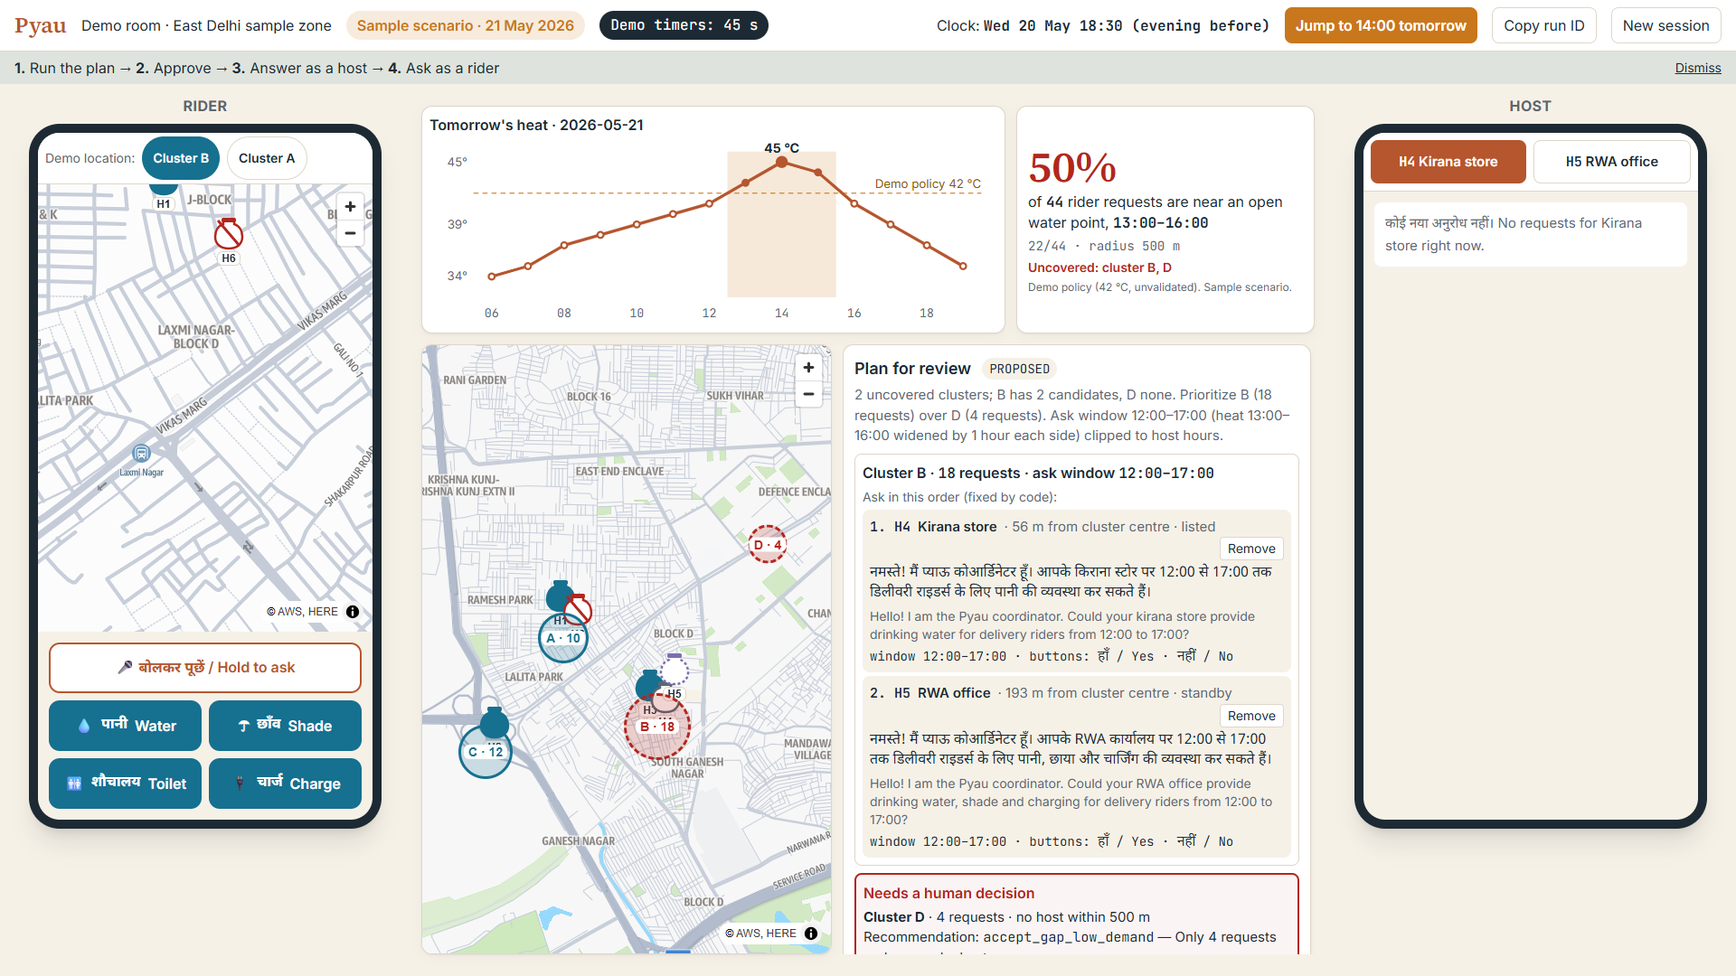
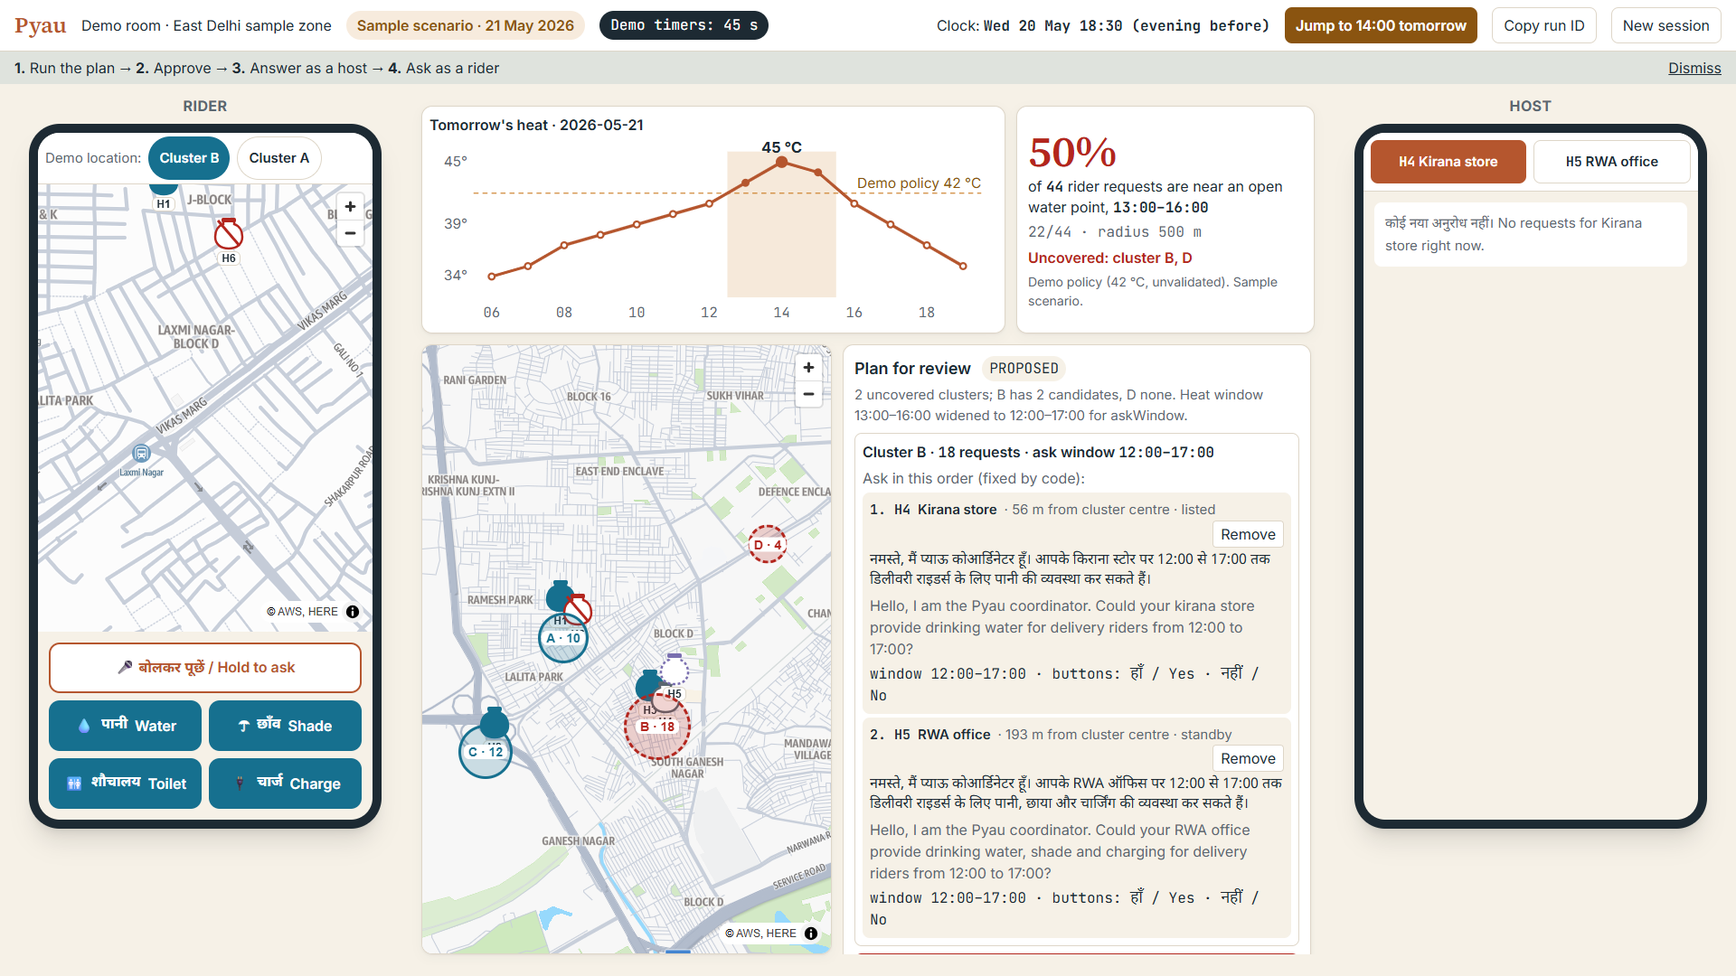
UI polish without layout change: heat-ink contrast token, 15/16 px minimum text, accessible loading states

diff --git a/apps/web/src/components/RiderPanel.tsx b/apps/web/src/components/RiderPanel.tsx
@@ -122,7 +122,7 @@ export function RiderPanel({ sessionId, zoneId, center, hosts, locations, onAnsw
   return (
     <div className="flex h-full flex-col bg-canvas text-[15px]">
       {locations.length > 1 && (
-        <div className="flex items-center gap-2 border-b border-border bg-white px-2 py-1 text-sm" role="group" aria-label="Demo rider location">
+        <div className="flex items-center gap-2 border-b border-border bg-white px-2 py-1 text-[15px]" role="group" aria-label="Demo rider location">
           <span className="text-muted">Demo location:</span>
           {locations.map((l) => (
             <button key={l.id} aria-pressed={locId === l.id} onClick={() => { setLocId(l.id); setAnswer(null); setFb(null); }}
@@ -148,22 +148,22 @@ export function RiderPanel({ sessionId, zoneId, center, hosts, locations, onAnsw
             {answer.host && (
               <p className="m-0 flex flex-wrap items-baseline gap-x-2">
                 <strong className="text-lg">{answer.host.label}</strong>
-                <span className="font-mono text-sm text-muted">{answer.host.id}</span>
+                <span className="font-mono text-[15px] text-muted">{answer.host.id}</span>
               </p>
             )}
             <p className="hi m-0 mt-1 text-base leading-snug">{answer.answer.hi}</p>
-            <p className="m-0 mt-1 text-sm text-muted">{answer.answer.en}</p>
+            <p className="m-0 mt-1 text-[15px] text-muted">{answer.answer.en}</p>
             {answer.found && answer.host && (
-              <p className="m-0 mt-2 text-sm">
+              <p className="m-0 mt-2 text-[15px]">
                 <span className="font-mono font-semibold">
                   {answer.distanceM} m
                   {answer.route ? ` · ~${Math.max(1, Math.round(answer.route.durationS / 60))} min by scooter` : ""}
                 </span>
-                {answer.approximate && <span className="text-heat"> · approximate</span>}
+                {answer.approximate && <span className="text-heat-ink"> · approximate</span>}
               </p>
             )}
             {!answer.found && (
-              <p className="m-0 mt-2 text-sm font-medium text-gap">
+              <p className="m-0 mt-2 text-[15px] font-medium text-gap">
                 {hi.nothingNearby} · {en.nothingNearby}
               </p>
             )}
@@ -189,7 +189,7 @@ export function RiderPanel({ sessionId, zoneId, center, hosts, locations, onAnsw
                   </div>
                 )}
                 {fb?.result && (
-                  <p className="m-0 text-sm font-semibold" role="status">
+                  <p className="m-0 text-[15px] font-semibold" role="status">
                     {fb.result.kind === "got_it"
                       ? "Thanks! 🙏 Good to hear."
                       : fb.result.pausedNow
@@ -197,7 +197,7 @@ export function RiderPanel({ sessionId, zoneId, center, hosts, locations, onAnsw
                         : `Thanks — reported (${fb.result.problemCount} of ${fb.result.threshold} before a point is paused).`}
                   </p>
                 )}
-                {fb?.error && <p className="m-0 text-sm font-semibold text-gap">{fb.error}</p>}
+                {fb?.error && <p className="m-0 text-[15px] font-semibold text-gap">{fb.error}</p>}
               </div>
             )}
             <div className="mt-2 flex gap-2">
@@ -207,7 +207,7 @@ export function RiderPanel({ sessionId, zoneId, center, hosts, locations, onAnsw
                   {playing === "blocked" ? " (tap)" : ""}
                 </button>
               ) : (
-                <span className="flex-1 self-center text-sm text-muted">Audio unavailable — text answer above</span>
+                <span className="flex-1 self-center text-[15px] text-muted">Audio unavailable — text answer above</span>
               )}
               {answer.route && (
                 <button
@@ -222,7 +222,7 @@ export function RiderPanel({ sessionId, zoneId, center, hosts, locations, onAnsw
           </section>
         )}
         {transcript !== null && (
-          <p className="m-0 rounded-lg bg-white p-2 text-sm" aria-live="polite">
+          <p className="m-0 rounded-lg bg-white p-2 text-[15px]" aria-live="polite">
             <span className="text-muted">सुना / Heard:</span> <span className="hi font-semibold">“{transcript || "…"}”</span>
           </p>
         )}

diff --git a/apps/web/src/components/CoordinatorPanel.tsx b/apps/web/src/components/CoordinatorPanel.tsx
@@ -3,6 +3,7 @@ import { useQuery } from "@tanstack/react-query";
 import { getCoverage, type MapResponse } from "../api";
 import { isTerminal, type useRun } from "../hooks";
 import { AgentPanel } from "./AgentPanel";
+import { Loading } from "./Loading";
 import { HeatCurve } from "./HeatCurve";
 import { MapView } from "./MapView";
 import { OutreachBoard } from "./OutreachBoard";
@@ -36,6 +37,7 @@ export function CoordinatorPanel({ sessionId, zoneId, token, map, run }: Coordin
   return (
     <div className="flex h-full flex-col gap-3 overflow-hidden p-3">
       {cov.error && <p className="m-0 text-gap">{(cov.error as Error).message}</p>}
+      {!d && !cov.error && <Loading>Loading coverage…</Loading>}
       {d && (
         <div className="grid shrink-0 grid-cols-[1fr_330px] gap-3">
           <section className="card p-2">
@@ -44,7 +46,7 @@ export function CoordinatorPanel({ sessionId, zoneId, token, map, run }: Coordin
           </section>
           <section className="card flex flex-col justify-center p-3" aria-live="polite">
             {d.heat.status !== "OK" || !d.coverage ? (
-              <p className="m-0 font-semibold text-heat">
+              <p className="m-0 font-semibold text-heat-ink">
                 {d.heat.status === "INSUFFICIENT_DATA" ? "Insufficient forecast data — not treated as safe" : "No hours at or above the demo threshold"}
               </p>
             ) : (
@@ -56,13 +58,13 @@ export function CoordinatorPanel({ sessionId, zoneId, token, map, run }: Coordin
                   of <strong className="font-mono">{d.coverage.total}</strong> rider requests are near an open water point,{" "}
                   <strong className="font-mono">{d.coverage.window[0]}–{d.coverage.window[1]}</strong>
                 </p>
-                <p className="m-0 mt-1 font-mono text-sm text-muted">{d.coverage.covered}/{d.coverage.total} · radius {d.policy.coverageRadiusMeters} m</p>
-                <p className="m-0 mt-1 text-sm font-semibold text-gap">
+                <p className="m-0 mt-1 font-mono text-base text-muted">{d.coverage.covered}/{d.coverage.total} · radius {d.policy.coverageRadiusMeters} m</p>
+                <p className="m-0 mt-1 text-base font-semibold text-gap">
                   {d.coverage.uncoveredClusters.length ? `Uncovered: cluster ${d.coverage.uncoveredClusters.join(", ")}` : "Every cluster covered"}
                 </p>
               </>
             )}
-            <p className="m-0 mt-1 text-xs text-muted">Demo policy ({d.policy.heatThresholdC} °C, unvalidated). Sample scenario.</p>
+            <p className="m-0 mt-1 text-[14px] text-muted">Demo policy ({d.policy.heatThresholdC} °C, unvalidated). Sample scenario.</p>
           </section>
         </div>
       )}

diff --git a/apps/web/src/components/PlanReview.tsx b/apps/web/src/components/PlanReview.tsx
@@ -36,7 +36,7 @@ export function PlanReview({ proposal, sessionId, token, onDone, readOnly }: { p
     <section className="card p-3">
       <div className="flex items-center gap-3">
         <h2 className="m-0 text-lg font-semibold">Plan for review</h2>
-        <span className="rounded-full bg-canvas px-2 py-0.5 font-mono text-sm">{proposal.status}</span>
+        <span className="rounded-full bg-canvas px-2 py-0.5 font-mono text-base">{proposal.status}</span>
       </div>
       <p className="m-0 mt-1 text-[15px] text-muted">{proposal.explanation}</p>
       {proposal.gaps.map((g) => (
@@ -45,7 +45,7 @@ export function PlanReview({ proposal, sessionId, token, onDone, readOnly }: { p
             Cluster {g.clusterId} · <span className="font-mono">{g.requests}</span> requests · ask window{" "}
             <span className="font-mono">{g.askWindow[0]}–{g.askWindow[1]}</span>
           </p>
-          <p className="m-0 mt-1 text-sm text-muted">Ask in this order (fixed by code):</p>
+          <p className="m-0 mt-1 text-base text-muted">Ask in this order (fixed by code):</p>
           {g.candidateOrder.map((h, i) => {
             const m = g.messages[h];
             const c = g.candidates.find((x) => x.hostId === h);
@@ -56,14 +56,14 @@ export function PlanReview({ proposal, sessionId, token, onDone, readOnly }: { p
                   <span className="font-semibold">{c ? shortName(c.label) : ""}</span>
                   {c && <span className="text-muted">· {c.distanceM} m from cluster centre · {c.kind}</span>}
                   {!decided && (
-                    <button className="ml-auto rounded border border-border bg-white px-2 py-0.5 text-sm" onClick={() => toggle(h)}>
+                    <button className="ml-auto rounded border border-border bg-white px-2 py-0.5 text-base" onClick={() => toggle(h)}>
                       {removed.has(h) ? "Keep" : "Remove"}
                     </button>
                   )}
                 </div>
                 <p className="hi m-0 mt-1 text-base leading-snug">{m.hi}</p>
-                <p className="m-0 mt-1 text-sm text-muted">{m.en}</p>
-                <p className="m-0 mt-1 font-mono text-sm">window {m.window[0]}–{m.window[1]}{m.trimmed ? " (trimmed to host hours)" : ""} · buttons: हाँ / Yes · नहीं / No</p>
+                <p className="m-0 mt-1 text-base text-muted">{m.en}</p>
+                <p className="m-0 mt-1 font-mono text-base">window {m.window[0]}–{m.window[1]}{m.trimmed ? " (trimmed to host hours)" : ""} · buttons: हाँ / Yes · नहीं / No</p>
               </div>
             );
           })}

diff --git a/apps/web/src/pages/Demo.tsx b/apps/web/src/pages/Demo.tsx
@@ -1,3 +1,4 @@
+import { Loading } from "../components/Loading";
 import { useQuery } from "@tanstack/react-query";
 import { useState } from "react";
 import { getMap, setClock } from "../api";
@@ -39,7 +40,7 @@ export default function Demo() {
   const run = useRun(sid, zone, token, session?.scenarioDate ?? "");
 
   if (error) return <p className="p-4 text-gap">{error}</p>;
-  if (!session || !map.data) return <p className="p-4">Starting a fresh demo session…</p>;
+  if (!session || !map.data) return <Loading>Starting a fresh demo session…</Loading>;
 
   const clock = map.data.clock;
   const jump = async () => {
@@ -74,12 +75,12 @@ export default function Demo() {
       <header className="flex flex-wrap items-center gap-x-4 gap-y-1 border-b border-border bg-panel px-4 py-2">
         <span className="font-serif text-2xl font-semibold text-clay">Pyau</span>
         <span className="text-base">Demo room · {map.data.zone.name}</span>
-        <span className="rounded-full bg-heat/15 px-3 py-1 text-base font-semibold text-heat">{map.data.badge}</span>
+        <span className="rounded-full bg-heat/15 px-3 py-1 text-base font-semibold text-heat-ink">{map.data.badge}</span>
         <span className="rounded-full bg-ink px-3 py-1 font-mono text-base text-white">Demo timers: {session.demoTimersSeconds} s</span>
         <span className="ml-auto text-base">
           Clock: <strong className="font-mono">{clockText(clock)}</strong>
         </span>
-        <button className="min-h-10 rounded-lg bg-heat px-3 text-base font-semibold text-white disabled:opacity-50" onClick={() => void jump()} disabled={clock.time === "14:00"}>
+        <button className="min-h-10 rounded-lg bg-heat-ink px-3 text-base font-semibold text-white disabled:opacity-50" onClick={() => void jump()} disabled={clock.time === "14:00"}>
           Jump to 14:00 tomorrow
         </button>
         <button className="min-h-10 rounded-lg border border-border px-3 text-base" onClick={() => void copy()} disabled={!run.runId}>
@@ -94,7 +95,7 @@ export default function Demo() {
           <span>
             <strong>1.</strong> Run the plan → <strong>2.</strong> Approve → <strong>3.</strong> Answer as a host → <strong>4.</strong> Ask as a rider
           </span>
-          <button className="ml-auto text-sm underline" onClick={dismissCoach}>Dismiss</button>
+          <button className="ml-auto text-base underline" onClick={dismissCoach}>Dismiss</button>
         </div>
       )}
       {jumpErr && <p className="m-0 px-4 text-gap">{jumpErr}</p>}

diff --git a/apps/web/src/components/HeatCurve.tsx b/apps/web/src/components/HeatCurve.tsx
@@ -19,17 +19,17 @@ export function HeatCurve({ data }: { data: CoverageResponse }) {
       aria-label={`Hourly apparent temperature, peak ${Math.max(...vals)} °C at ${hours[peakI]}${win ? `, heat window ${win[0]} to ${win[1]}` : ""}`}>
       {win && <rect x={X(hm(win[0]))} y={T} width={X(hm(win[1])) - X(hm(win[0]))} height={H - T - B} fill="#c9771c" opacity={0.16} />}
       <line x1={L} x2={W - R} y1={Y(data.policy.heatThresholdC)} y2={Y(data.policy.heatThresholdC)} stroke="#c9771c" strokeDasharray="5 4" />
-      <text x={W - R} y={Y(data.policy.heatThresholdC) - 5} textAnchor="end" fontSize="12" fill="#8a5410">Demo policy {data.policy.heatThresholdC} °C</text>
+      <text x={W - R} y={Y(data.policy.heatThresholdC) - 5} textAnchor="end" fontSize="14" fill="#8a5410">Demo policy {data.policy.heatThresholdC} °C</text>
       <polyline points={pts} fill="none" stroke="#b5562e" strokeWidth={3} strokeLinejoin="round" />
       {hours.map((h, i) => (
         <circle key={h} cx={X(hm(h) + 0.5)} cy={Y(vals[i])} r={i === peakI ? 5 : 3} fill={vals[i] >= data.policy.heatThresholdC ? "#b5562e" : "#fff"} stroke="#b5562e" strokeWidth={2} />
       ))}
-      <text x={X(hm(hours[peakI]) + 0.5)} y={Y(vals[peakI]) - 9} textAnchor="middle" fontSize="13" fontWeight="700" fill="#1d2a33">{vals[peakI]} °C</text>
+      <text x={X(hm(hours[peakI]) + 0.5)} y={Y(vals[peakI]) - 9} textAnchor="middle" fontSize="15" fontWeight="700" fill="#1d2a33">{vals[peakI]} °C</text>
       {hours.filter((_, i) => i % 2 === 0).map((h) => (
-        <text key={h} x={X(hm(h) + 0.5)} y={H - 8} textAnchor="middle" fontSize="12" fill="#5b6770" fontFamily="JetBrains Mono Variable, monospace">{h.slice(0, 2)}</text>
+        <text key={h} x={X(hm(h) + 0.5)} y={H - 8} textAnchor="middle" fontSize="14" fill="#5b6770" fontFamily="JetBrains Mono Variable, monospace">{h.slice(0, 2)}</text>
       ))}
       {[lo + 2, Math.round((lo + hi) / 2), hi - 1].map((v) => (
-        <text key={v} x={L - 6} y={Y(v) + 4} textAnchor="end" fontSize="12" fill="#5b6770">{v}°</text>
+        <text key={v} x={L - 6} y={Y(v) + 4} textAnchor="end" fontSize="14" fill="#5b6770">{v}°</text>
       ))}
     </svg>
   );

diff --git a/apps/web/src/components/AgentPanel.tsx b/apps/web/src/components/AgentPanel.tsx
@@ -22,8 +22,8 @@ export function AgentPanel({ events, detail, onRun, canRun, startError, replayId
     <section className="card p-3">
       <div className="flex items-center gap-3">
         <h2 className="m-0 text-lg font-semibold">Coverage agent</h2>
-        {run && <span className="rounded-full bg-canvas px-2 py-0.5 font-mono text-sm">{run.status}</span>}
-        {started && <span className="font-mono text-sm text-muted">{elapsed}s</span>}
+        {run && <span className="rounded-full bg-canvas px-2 py-0.5 font-mono text-base">{run.status}</span>}
+        {started && <span className="font-mono text-base text-muted">{elapsed}s</span>}
         {!readOnly && (
           <button
             className="ml-auto min-h-11 rounded-lg bg-clay px-4 text-base font-semibold text-white disabled:opacity-50"
@@ -47,11 +47,11 @@ export function AgentPanel({ events, detail, onRun, canRun, startError, replayId
           <li key={e.seq} className="text-[15px]">
             <details>
               <summary className="cursor-pointer list-none">
-                <span className="font-mono text-sm text-muted">{fmtTime(e.at)}</span>{" "}
-                <span className="rounded bg-canvas px-1.5 py-0.5 font-mono text-xs uppercase text-muted">{TYPE_LABEL[e.type] ?? e.type}</span>{" "}
+                <span className="font-mono text-base text-muted">{fmtTime(e.at)}</span>{" "}
+                <span className="rounded bg-canvas px-1.5 py-0.5 font-mono text-[14px] uppercase text-muted">{TYPE_LABEL[e.type] ?? e.type}</span>{" "}
                 <span>{e.summary}</span>
               </summary>
-              <pre className="m-1 overflow-auto rounded-lg bg-canvas p-2 font-mono text-xs">
+              <pre className="m-1 overflow-auto rounded-lg bg-canvas p-2 font-mono text-[14px]">
                 {e.type === "tool_receipt"
                   ? `${(e.data as { tool?: string }).tool}(${(e.data as { input?: string }).input ?? ""})  ${(e.data as { durationMs?: number }).durationMs} ms\n→ ${(e.data as { output?: string }).output ?? ""}`
                   : JSON.stringify(e.data, null, 1)}

diff --git a/apps/web/src/pages/Host.tsx b/apps/web/src/pages/Host.tsx
@@ -1,3 +1,4 @@
+import { Loading } from "../components/Loading";
 import { useEffect, useRef, useState } from "react";
 import { useQuery, useQueryClient } from "@tanstack/react-query";
 import { FieldError, getMap, hostAsks, registerHost, reverseGeocode, runFreshness, type Ask, type RegisteredHost } from "../api";
@@ -120,7 +121,7 @@ export default function Host() {
     }
   };
 
-  if (!session || !map.data) return <p className="p-4">Loading…</p>;
+  if (!session || !map.data) return <Loading>Loading the host screen…</Loading>;
   const myState = (id: string) => map.data!.hosts.find((h) => h.id === id);
   const toggleOffer = (o: string) => setOffers((v) => (v.includes(o) ? v.filter((x) => x !== o) : [...v, o]));
   const Err = ({ k }: { k: string }) => (fields[k] ? <p className="m-0 mt-1 text-sm font-semibold text-gap" role="alert">{fields[k]}</p> : null);
@@ -136,7 +137,7 @@ export default function Host() {
           <p className="hi m-0 text-lg">अपना पानी पॉइंट जोड़ें</p>
           <p className="m-0 text-sm text-muted">Sample scenario · demo session {sid.slice(0, 6)}</p>
         </header>
-        {notice && <p className="m-0 rounded-lg bg-ok/10 p-2 font-medium text-ok" role="status">{notice}</p>}
+        {notice && <p className="m-0 rounded-lg border border-ok bg-white p-2 font-medium text-ok" role="status">{notice}</p>}
         {(inbox.data ?? []).length > 0 && (
           <section className="space-y-2" aria-label="Inbox">
             {(inbox.data as Ask[]).map((a) => (

diff --git a/apps/web/src/components/HostPanel.tsx b/apps/web/src/components/HostPanel.tsx
@@ -29,7 +29,7 @@ export function AskCard({ ask, serverTime, sessionId, token, onChanged }: { ask:
   if (fresh)
     return (
       <section className="card p-3">
-        <p className="m-0 text-sm font-semibold text-muted">Morning check · {ask.hostLabel}</p>
+        <p className="m-0 text-[15px] font-semibold text-muted">Morning check · {ask.hostLabel}</p>
         <p className="hi m-0 mt-1 text-xl font-semibold">{ask.message.hi}</p>
         <p className="m-0 text-base text-muted">{ask.message.en}</p>
         {ask.status === "OPEN" && (
@@ -49,12 +49,12 @@ export function AskCard({ ask, serverTime, sessionId, token, onChanged }: { ask:
     );
   return (
     <section className="card p-3">
-      <p className="m-0 text-sm font-semibold text-muted">Request from the Pyau coordinator</p>
+      <p className="m-0 text-[15px] font-semibold text-muted">Request from the Pyau coordinator</p>
       <p className="hi m-0 mt-1 text-[17px] leading-snug">{ask.message.hi}</p>
       <p className="m-0 mt-1 text-[15px] text-muted">{ask.message.en}</p>
       <p className="m-0 mt-2 font-mono text-base font-bold">{ask.window[0]}–{ask.window[1]}</p>
       {ask.status === "OPEN" && (
-        <p className="m-0 mt-1 inline-block rounded-full bg-heat/15 px-3 py-1 font-mono text-sm font-semibold text-heat">
+        <p className="m-0 mt-1 inline-block rounded-full bg-heat/15 px-3 py-1 font-mono text-[15px] font-semibold text-heat-ink">
           {open ? `${fmtClock(left ?? 0)} left` : "time is up"}
         </p>
       )}

diff --git a/apps/web/src/components/OutreachBoard.tsx b/apps/web/src/components/OutreachBoard.tsx
@@ -6,7 +6,7 @@ const name = (a: Ask) => a.hostLabel ?? a.hostId;
 function Step({ ask, serverTime }: { ask: Ask; serverTime: number }) {
   const left = useCountdown(ask.status === "OPEN" ? ask.expiresAt : null, serverTime);
   if (ask.status === "OPEN")
-    return <li className="text-heat">⏳ Asking <strong>{name(ask)}</strong> · <span className="font-mono">{fmtClock(left ?? 0)} left</span></li>;
+    return <li className="text-heat-ink">⏳ Asking <strong>{name(ask)}</strong> · <span className="font-mono">{fmtClock(left ?? 0)} left</span></li>;
   if (ask.status === "TIMED_OUT") return <li className="text-gap">✗ {name(ask)}: no reply — timed out</li>;
   if (ask.status === "DECLINED") return <li className="text-gap">✗ {name(ask)} said No</li>;
   return <li className="text-ok">✓ {name(ask)} accepted <span className="font-mono">{ask.window[0]}–{ask.window[1]}</span> (host confirmed)</li>;

diff --git a/apps/web/src/pages/Replay.tsx b/apps/web/src/pages/Replay.tsx
@@ -1,3 +1,4 @@
+import { Loading } from "../components/Loading";
 import { useQuery } from "@tanstack/react-query";
 import { Link, useParams } from "react-router-dom";
 import { api, type Ask, type CovNum, type Proposal, type Receipt } from "../api";
@@ -14,7 +15,7 @@ interface Replay {
 export default function ReplayPage() {
   const { id = "latest" } = useParams();
   const q = useQuery({ queryKey: ["replay", id], queryFn: () => api<Replay>("GET", `/replays/${id}`) });
-  if (q.isLoading) return <p className="p-4">Loading replay…</p>;
+  if (q.isLoading) return <Loading>Loading the saved run…</Loading>;
   if (q.error || !q.data) return <p className="p-4 text-gap">No such replay.</p>;
   const r = q.data;
   const before = r.proposal.coverageBefore, after = r.run.coverageCurrent;

diff --git a/apps/web/src/pages/Coordinate.tsx b/apps/web/src/pages/Coordinate.tsx
@@ -1,3 +1,4 @@
+import { Loading } from "../components/Loading";
 import { useQuery } from "@tanstack/react-query";
 import { getMap } from "../api";
 import { CoordinatorPanel } from "../components/CoordinatorPanel";
@@ -16,7 +17,7 @@ export default function Coordinate() {
   });
   const run = useRun(sid, session?.zoneId ?? "", session?.token ?? "", session?.scenarioDate ?? "");
   if (error) return <p className="p-4 text-gap">{error}</p>;
-  if (!session || !map.data) return <p className="p-4">Loading…</p>;
+  if (!session || !map.data) return <Loading>Loading the coordinator screen…</Loading>;
   return (
     <div className="mx-auto h-full max-w-6xl">
       <CoordinatorPanel sessionId={sid} zoneId={session.zoneId} token={session.token} map={map.data} run={run} />

diff --git a/apps/web/src/components/ProblemQueue.tsx b/apps/web/src/components/ProblemQueue.tsx
@@ -31,7 +31,7 @@ export function ProblemQueue({ sessionId, zoneId, token }: { sessionId: string; 
               <span className="font-semibold text-gap">⏸ Paused</span>
               <button className="ml-auto min-h-10 rounded-lg border border-border bg-white px-3 font-semibold" onClick={() => void act(p.hostId)}>Reactivate</button>
             </p>
-            <p className="m-0 text-sm text-muted">
+            <p className="m-0 text-base text-muted">
               {p.reason}{p.seeded ? " (sample scenario)" : ""}
               {p.reports.length > 0 && <> · reports: {p.reports.map((r) => KIND[r.kind] ?? r.kind).join(", ")}</>}
             </p>
